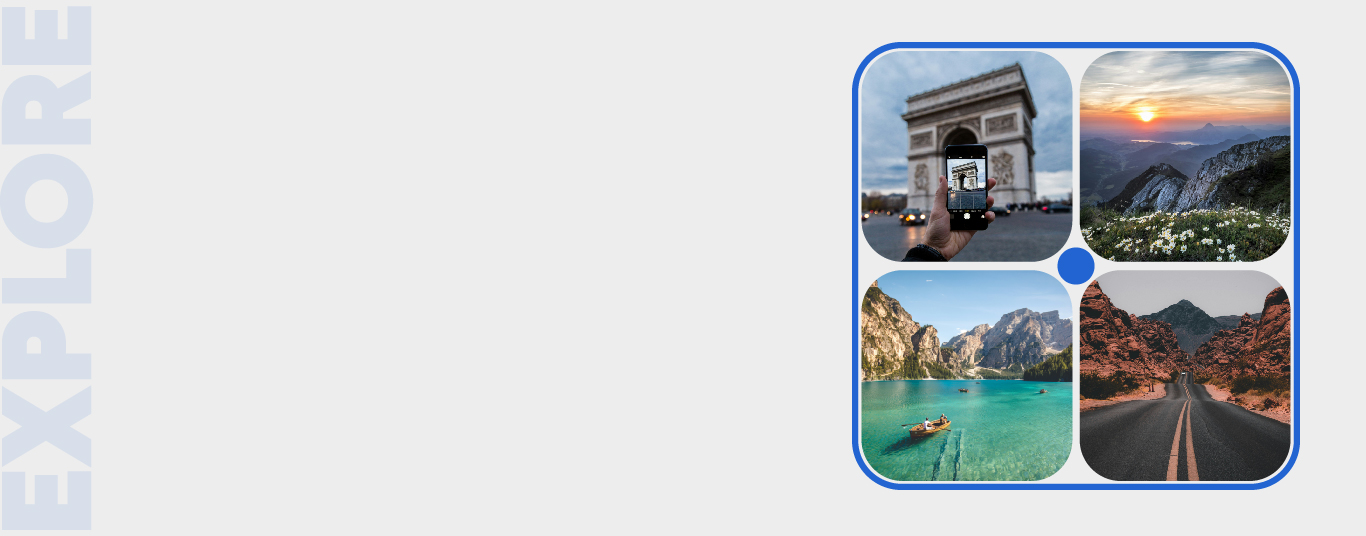
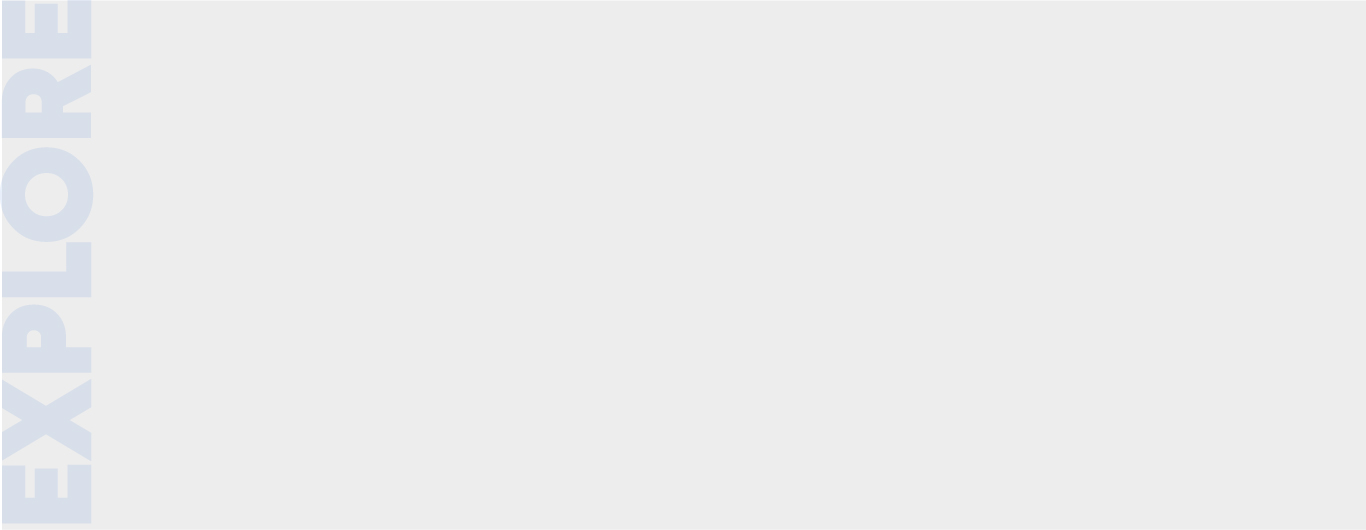
Main Hero Section Small Update

Changed region(s): [[0.6149, 0.0604, 0.9531, 0.9358]]

diff --git a/styles/home-page-style.css b/styles/home-page-style.css
@@ -4,7 +4,11 @@
     background-size: contain;
     background-repeat: no-repeat;
     display: flex;
+    justify-content: space-between;
     align-items: center;
+}
+.hero-section-img img {
+    margin-right: 110px;
 }
 
 #page-mini-title {
@@ -40,7 +44,7 @@
     text-align: justify;
 }
 .hero-section {
-    margin-left: 100px;
+    margin-left: 110px;
 }
 
 .most-visited-container {
@@ -50,7 +54,7 @@
 }
 .most-visited-location {
     height: 50px;
-    width: 91%;
+    width: 88%;
     background-color: #2264d1;
     display: flex;
     justify-content: center;

diff --git a/index.html b/index.html
@@ -43,6 +43,9 @@
                     <p>We are travel share 360 company who provide most reasonable tour packages with a compact prices and high priority to our customers. We provide customize packages to our customer as they are our main priority</p>
                 </div>
             </div>
+            <div class="hero-section-img">
+                <img src="assets/Home-page-photo/main-hero-img.png" alt="">
+            </div>
         </div>
         <div class="most-visited-container">
             <div class="most-visited-location">
